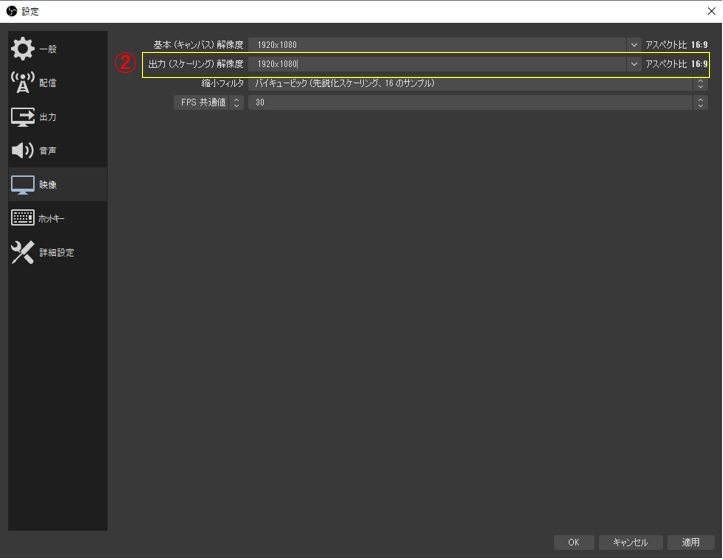
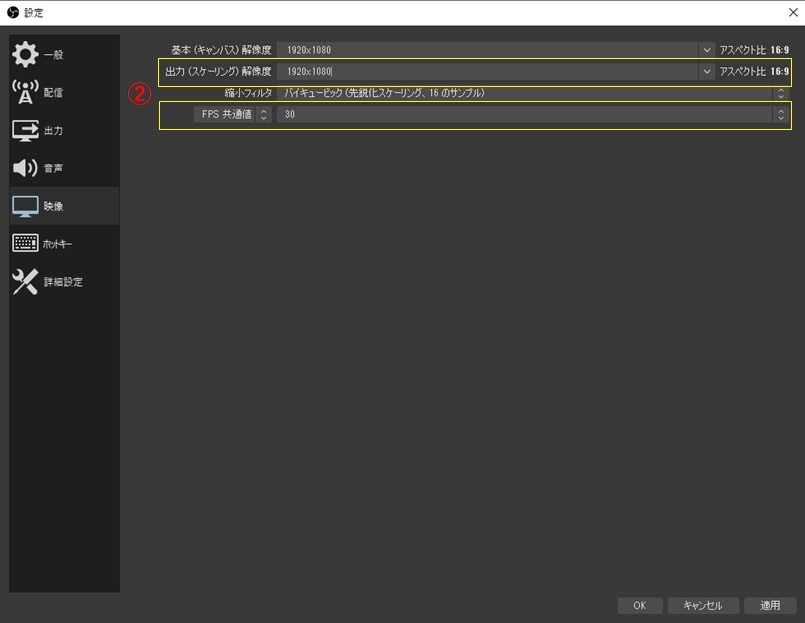
update

diff --git a/np_online_broadcast_manual.html b/np_online_broadcast_manual.html
@@ -39,8 +39,8 @@
     ③SAVEボタンを押下して画面を閉じます．<br><br>
     ④メイン画面からVideo設定画面を開きます．<br>
     　Setting → Connections → Video の順にたどり図右側の設定画面を開きます．<br>
-    　Video sizeを1920x1080以下に設定してください.<br>
-    　　*ネットワークの上り回線速度に合わせてVideo sizeを選択してください<br><br>
+    　Video sizeを1920x1080に設定してください.<br>
+    　FPSを30 fixed rateに設定してください．<br><br>
     ⑤メイン画面で配信開始ボタンを押下して配信を開始します．<br><br>
     ⑥配信サーバにアクセスして配信状態を確認します．配信状態の確認の項目を参照してください．<br><br>
     <br>
@@ -68,9 +68,9 @@
     　サービス：カスタム<br>
     　サーバー：配信担当者にご確認ください<br>
     　ストリームキー：配信担当者にご確認ください<br>
-    ②-2  映像のタブを選択し，出力解像度を1920x1080以下に設定してください<br>
-    　*ネットワークの上り回線速度に合わせて出力解像度を選択してください
-    <br><br>
+    ②-2  映像のタブを選択し，映像の設定をします．<br>
+    　出力解像度を1920x1080に設定してください<br>
+    　FPS共通値を30に設定してください<br><br>
     ③配信画面や音声設定後，配信開始キーを押下すると配信が開始されます<br>
     <br>
     ④配信サーバにアクセスして配信状態を確認します．配信状態の確認の項目を参照してください．
@@ -92,13 +92,21 @@
     ・映るかどうかの単純なチェックだけでなく，音や映像が途切れていないかを確認してください．<br>
     　実際に途切れが発生する場合，確認画面が度々Wait状態（くるくるのマークが表示される）になります．<br>
     ・途切れの無い高品質な配信には十分な通信速度が必要です．<br>
+    　通信速度については後述の”通信速度確認”の項に記載の方法で確認可能ですので事前に確認することを推奨します．<br>
     ・通信速度は場所や時間帯の影響を受けます．<br>
     　できる限り実際の配信場所，時間帯に近い環境での確認を推奨します．<br> 
     ・映像や音が途切れる場合は映像の解像度を落として確認してください．<br>
+    　1920x1080以外で配信する場合は配信管理者に報告をお願いします．<br>
     <br>
     <img src="images/np_bm1.jpg" alt="np_bm1" title="np_bm1">
     <br><br>
-
+    ■通信速度確認<br>
+    以下のサイトで通信速度を確認することができます．実際に配信で使用する端末・通信環境で確認してください．<br>
+    <a href="https://www.bspeedtest.jp/test-result.html?id=348040644">https://www.bspeedtest.jp/test-result.html?id=348040644</a>　<br>
+    配信に影響するのは”アップロード速度”です．<br>
+    アップロード速度が8Mb/s未満の場合は，ネットワークを変えるか解像度目安表を参考に解像度を下げてください．<br>
+    1920x1080以外で配信する場合は配信管理者に報告をお願いします．<br><br>
+    <img src="images/np_bm5.jpg" alt="np_bm5" title="np_bm5">
     <p>
 
 </body>
